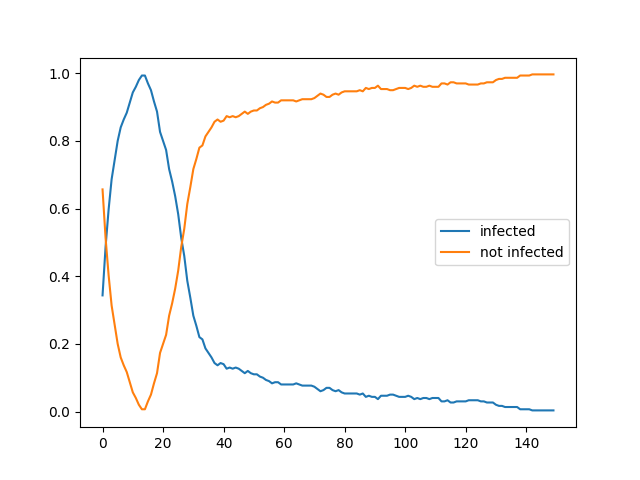
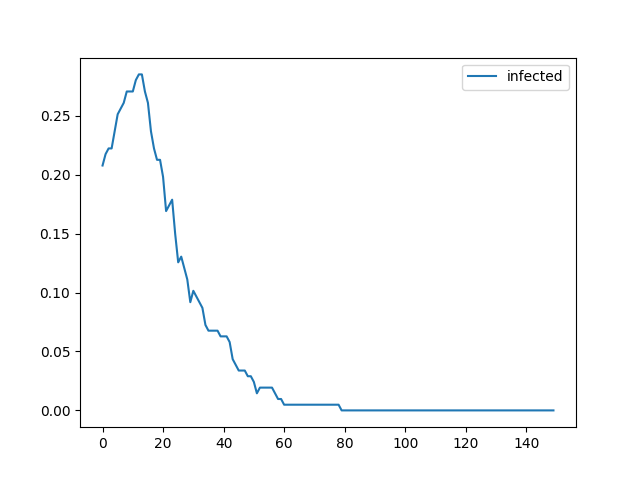
update image and params

diff --git a/main.py b/main.py
@@ -72,7 +72,7 @@ def main():
     density = 0.020745   # people / unit^2
     population = int(density * world_size * world_size)
     initial_infection = 0.2
-    probability_of_reinfection = 0.05
+    probability_of_reinfection = 0.2
     epochs = 150
 
     grid = get_empty_grid(world_size, world_size)
